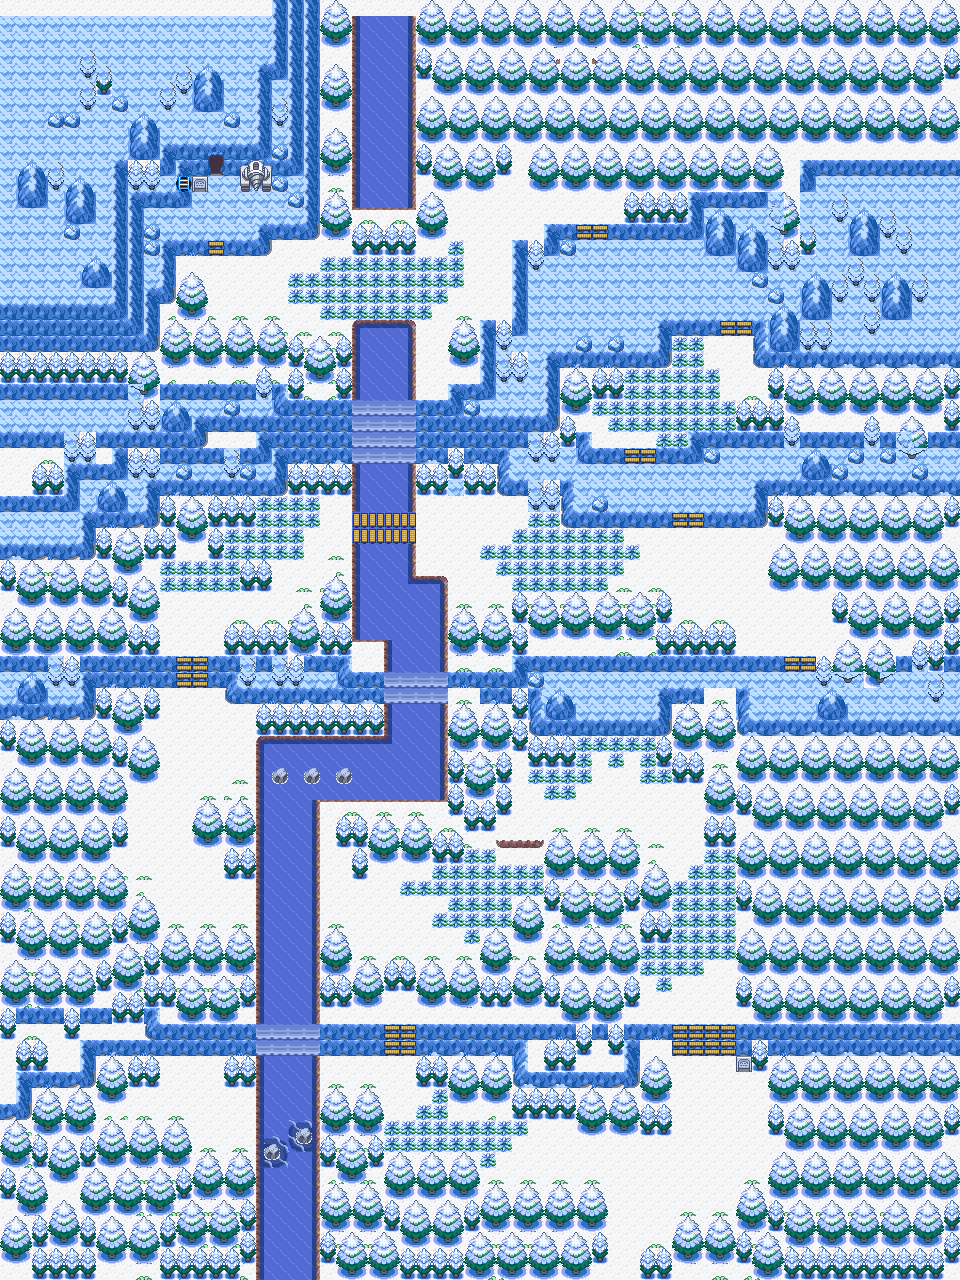
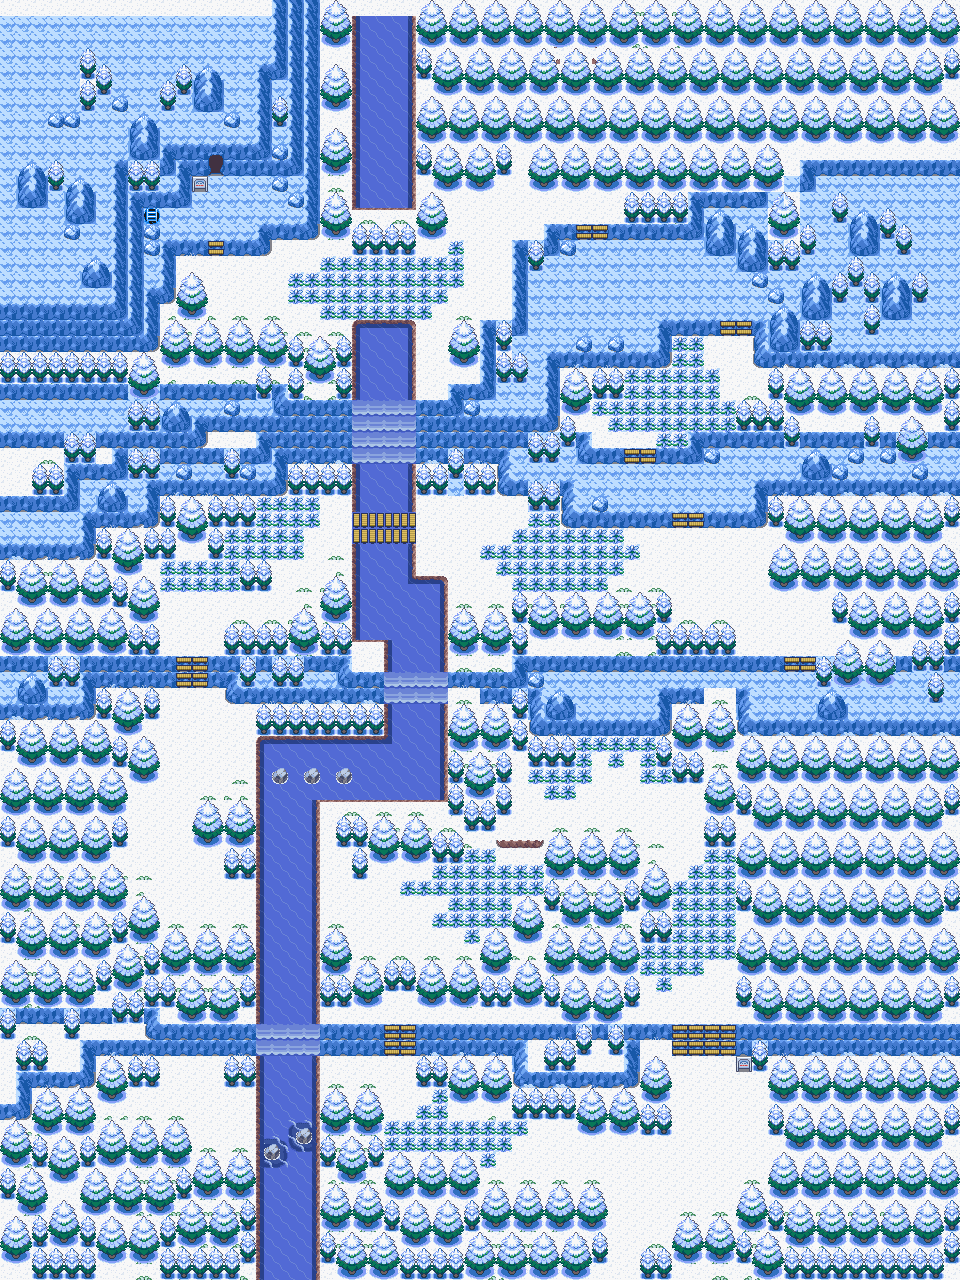
Mt. Mirroh exterior: secret ladder moved to the marked spot (9,13); drilling machine removed; pines on ice tidied
Claude-Session: https://claude.ai/code/session_01FHXnfqnedTHLf5QFbB3MCU

diff --git a/tools/art/mt_mirroh/exterior_mock.py b/tools/art/mt_mirroh/exterior_mock.py
@@ -24,9 +24,10 @@ DOJO = {(x, y) for x in range(33, 49) for y in range(4, 12)}
 LOWER_MOUTH = [(11, 64), (11, 65)]
 CAVE = (13, 10)
 # the secret way down to B1F, Alaric's ritual site (user 2026-11-23: right by the main entrance into the mountain): a
-# ladder hole in the ice in the corner left of the cave mouth, under a Rock Smash rock (an object, placed by the build;
+# ladder hole in the ice west of the cave mouth, above two rocks, under a Rock Smash rock (an object, placed by the build;
 # Rock Smash comes later in the game, so in Chapter 1 the rock stays)
-SECRET = (11, 11)
+SECRET = (9, 13)        # (user 2026-11-23, marked on a screenshot: the open ice above the two rocks, west of the mouth)
+DRILL = [(15, 10), (16, 10), (15, 11), (16, 11)]   # (Dreamstone Mysteries' drilling machine by the mouth: gone, user)
 MB_TALL_GRASS = 0x02
 EFG = mm.EF_GROUND
 BIG, SMALL, ROCK = [[0xe9, 0xea], [0xf1, 0xf2], [0xf9, 0xfa]], [[0x109], [0x111]], [[0xe8]]
@@ -67,10 +68,13 @@ def compose():
         c = cell_of(dm, x, y).astype(int)
         blue = ((c[..., 2] - c[..., 0] > 30) & (c.sum(-1) > 450)).sum(); white = (c.min(-1) > 230).sum()
         return blue > white
-    on_ice = {(x, y) for (x, y) in tree if cells[(x, y)][2] == 'MB_MOUNTAIN_TOP'}
-    for y in range(H - 1, -1, -1):                          # (the top of a pine whose foot stands on the ice)
-        for x in range(W):
-            if (x, y) in tree and (x, y + 1) in on_ice and cells.get((x - 1, y), [1, 0, ''])[2] != 'MB_NORMAL': on_ice.add((x, y))
+    def corner_ice(x, y):                                  # (DM's ground at the cell's top corners: ice or snow)
+        c = cell_of(dm, x, y).astype(int); k = np.concatenate([c[:3, :3].reshape(-1, 3), c[:3, -3:].reshape(-1, 3)])
+        return ((k[:, 2] - k[:, 0] > 30) & (k.sum(-1) > 450)).mean() > 0.5
+    base = {(x, y) for (x, y) in tree if cells[(x, y)][2] == 'MB_MOUNTAIN_TOP'}
+    on_ice = base | {(x, y) for (x, y) in tree if (x, y + 1) in base}                       # (a pine's top over its foot)
+    on_ice |= {(x, y) for (x, y) in tree if corner_ice(x, y) and cells[(x, y)][2] != 'MB_MOUNTAIN_TOP' and
+               any(cells.get(n, [1, 0, ''])[2] == 'MB_MOUNTAIN_TOP' for n in ((x - 1, y), (x + 1, y), (x, y - 1), (x, y + 1)))}
     tree |= DOJO
     for x in range(W):                                              # (the top edge closed: pinewood)
         if not solid[0, x]: tree |= {(x, 0)}
@@ -110,7 +114,8 @@ def compose():
         else: place(ROCK, x, y)                                         # (no bare cells in a wood: they read as ground)
     # trees standing on DM's ice: Elderflower's plain snow left round them (its two commonest colours) shows the ice
     from scipy.ndimage import label as _label
-    efsnow = {tuple(c) for m_ in (0xed, 0xee) for c in mm.full('ef', m_).reshape(-1, 3)}
+    t0 = mm.full('ef', 0xed).reshape(-1, 3); cols_, cnt_ = np.unique(t0, axis=0, return_counts=True)
+    efsnow = {tuple(c) for c in cols_[np.argsort(-cnt_)[:2]]}     # (its plain snow's two colours only)
     for (x, y) in on_ice:
         reg = img[y * 16:y * 16 + 16, x * 16:x * 16 + 16]
         icec = ground_near(x, y, plain_ice, ICE)
@@ -155,6 +160,9 @@ def compose():
             n = (x + d, y); v = cells.get(n)
             if v and v[0] == 1 and n not in tree and n not in LOWER_MOUTH and v[2] == 'MB_MOUNTAIN_TOP' and v[5] - v[3] > 40: break
         img[y * 16:y * 16 + 16, x * 16:x * 16 + 16] = cell_of(dm, *n); solid[y, x] = True; beh[y, x] = 0
+    # the drilling machine: gone; the band and the ice beside it carry on (DM's own cells, and their collision)
+    for (x, y) in DRILL:
+        n = (14, y); img[y * 16:y * 16 + 16, x * 16:x * 16 + 16] = cell_of(dm, *n); solid[y, x] = cells[n][0] != 0; beh[y, x] = 0
     # the ladder hole: Dreamstone Mysteries' own (its 1F's ladder at (38, 45)), cut from its cave floor onto the ice
     one = np.array(Image.open(os.path.join(REPO, 'assets', 'mt_mirroh_reference', 'dm_1f.png')).convert('RGB'))
     lad = cell_of(one, 38, 45).astype(int); flo = cell_of(one, 37, 45).astype(int)

diff --git a/bible/20_chapter1_build.md b/bible/20_chapter1_build.md
@@ -204,7 +204,7 @@ Chapter 1 is the template: once its foundations (mechanics, maps, buildings, NPC
     - **Walked in the emulator** both ways: Hollow Hill → Mirroh Gate → hallway → Lower → stairs → Upper → north-west hallway (turned back) → skull gate → grounds → the lake and back, then all the way down again to Hollow Hill (`assets/mirroh_reference/ingame_mirroh_tour.png`).
     - Lamps, benches and snow flowers are solid. The reflecting ice is plain floor for now.
   - **Mt. Mirroh and Mirroh Peak, decided (user 2026-11-23):** **three maps: the outdoor climb, one cave floor, the summit.** The climb carries the Sword Cult trainers and, off the path, the hidden camp where acolytes torture a captured Beads cultist (8a); the cave floor runs through the mountain and holds **the scarred site of Alaric's Ting-Lu ritual** two years ago (bible 12); the summit plateau is the stage for Baradus, the hurt Eden, the shiny Crabominable and Kimaris's arrival (8b-8c). **The look (user):** a combination of Route 13's art (MonoMyth's northern routes and Fort Elderflower), **MonoMyth's mountains (like Mt. Thunder)**, **Dreamstone Mysteries' snowy and icy mountain terrain**, and **Crown's, if it has any**. **Clarified by the user the same evening: Mt. Mirroh is an expansion of Dreamstone Mysteries' own Mt. Mirroh.** Its overall design and layout (the exterior valley, the caves `MirrohInterior_1F/2F/B1F`, the Peak) are kept as the basis and expanded and re-dressed in the combined art, not replaced by a new design. (So the earlier "replaced, deleted later" applies only to whatever of the old maps the expansion leaves unused.)
-    - **Dreamstone Mysteries' Mt. Mirroh, as found (2026-11-23; `assets/mt_mirroh_reference/dm_mt_mirroh_overview.png`, exits marked):** **the exterior** (`MtMirrohExterior`, 60x80): a river valley climbing from Mirroh Base Camp at its foot (a map connection), bridges and pinewoods, a pushable-boulder puzzle at its head beside **the cave mouth** (13,10) **and a fighting dojo** (41,9); a **lower cave mouth** (11,65) into B1F. **1F** (60x60, an ice cave): **a rest stop with a nurse** (41,46), boulder puzzles, plank bridges, three ways up to **2F** (60x60, a loop of trainers and a boulder puzzle), **the exit onto the Peak** (3,12) with two Magma members beside it, and an exit to Lily Pond (a later area). **B1F** (60x80): one great icy hall reached from the lower mouth (Winterlily Hollow, later, warps into it). **The Peak** (`MirrohPeak`, 50x110): a pinewood snowfield at its foot (from 1F), terraced ice cliffs climbed past Magma grunts, **a long bridge across a frozen lake to the summit**, where huts stand and DM's climax took place (Maxie, a Deoxys triangle); an exit east to Winterlily Hollow (later). **The expansion's flow, decided by the user 2026-11-23:** **the exterior** (the river climb; **the fighting dojo removed**) leads into **1F**, where the player meets a few hikers and enemy trainers and, **near the stairs up to 2F, comes upon Sword Cult acolytes torturing a captured Beads cultist (8a)**: **the inciting incident** that drives the player to explore further, alongside the search for the first Dreamstone Shard. **2F is where the player finds the Dreamstone Shard.** From 2F, **the Peak**: at the summit (**abandoned ruins**: old stone huts and a broken shrine, where rumours placed the Shard) the player **beats the Sword Cult's unit boss there, a cardinal cultist**; **Baradus swoops in and kills him in front of the player for losing**: **his Crabominable crushes the cardinal, leaving a mangled corpse**, and then Baradus turns on the player (the curbstomp, 8b). Meant to make a big impact: how no-nonsense, ruthless and dangerous Baradus is. (The rest of Beat 8 stands unless the user changes it: the hurt Eden, Kimaris's arrival, 8d's aftermath.) **Alaric's Ting-Lu ritual site is B1F** (user 2026-11-23, correcting the earlier "delete B1F": "technically a B1F you need to make where the Ting-Lu ritual took place, but sealed in Chapter 1 and you can't access it"): **a ladder down beside the exterior's cave mouth, covered by a Rock Smash rock** (user 2026-11-23: right near the main entrance into the mountain; it replaces the earlier "caved-in spot on 1F"), broken open later with Rock Smash (a side quest later in the game), leads down to it. **B1F is made in stage 1** (its look: the scarred ritual site, expanding DM's B1F great icy hall) **and is unreachable in Chapter 1**; the exterior's lower cave mouth into it is removed (the only way in is the 1F cave-in); Winterlily Hollow's warps into it are settled when that later area is done. **Eden and Kimaris close the Peak scene as written** (user 2026-11-23). **The exterior, mock v1 (2026-11-23; `tools/art/mt_mirroh/exterior_mock.py`, `assets/mt_mirroh_reference/exterior_mock_v1.png`, beside DM's: `exterior_dm_vs_mock_v1.png`):** DM's own picture and collision as the base, so its layout stays exactly (its blue ice cliffs and plateaus, river, falls, bridges, stairs, meadows, the cave mouth at the head, the boulders); its pines become Route 13's (Fort Elderflower's, whole trees, staggered), its tall grass Route 13's ice grass, its stray green shrubs gone; the dojo pinewood, the lower cave mouth rock, the top edge closed; reachable from the foot path to the cave mouth. **The secret way down to B1F (user 2026-11-23: "right near the main entrance going into Mt. Mirroh proper"):** a ladder hole in the ice at (11,11), in the corner just left of the cave mouth's signpost (Dreamstone Mysteries' own ladder hole from its 1F, cut onto the ice), **covered by a Rock Smash rock** (an object); Rock Smash comes later in the game, so in Chapter 1 it stays shut (`assets/mt_mirroh_reference/exterior_secret_ladder.png`). Art reference for the expansion: **MonoMyth's Mt. Thunder** (its mapsecs 59, 73, 126: pale-blue ice caves, snowfields with pines, a diagonal mountain face, a summit; `assets/mt_mirroh_reference/monomyth_mt_thunder_maps.png`).
+    - **Dreamstone Mysteries' Mt. Mirroh, as found (2026-11-23; `assets/mt_mirroh_reference/dm_mt_mirroh_overview.png`, exits marked):** **the exterior** (`MtMirrohExterior`, 60x80): a river valley climbing from Mirroh Base Camp at its foot (a map connection), bridges and pinewoods, a pushable-boulder puzzle at its head beside **the cave mouth** (13,10) **and a fighting dojo** (41,9); a **lower cave mouth** (11,65) into B1F. **1F** (60x60, an ice cave): **a rest stop with a nurse** (41,46), boulder puzzles, plank bridges, three ways up to **2F** (60x60, a loop of trainers and a boulder puzzle), **the exit onto the Peak** (3,12) with two Magma members beside it, and an exit to Lily Pond (a later area). **B1F** (60x80): one great icy hall reached from the lower mouth (Winterlily Hollow, later, warps into it). **The Peak** (`MirrohPeak`, 50x110): a pinewood snowfield at its foot (from 1F), terraced ice cliffs climbed past Magma grunts, **a long bridge across a frozen lake to the summit**, where huts stand and DM's climax took place (Maxie, a Deoxys triangle); an exit east to Winterlily Hollow (later). **The expansion's flow, decided by the user 2026-11-23:** **the exterior** (the river climb; **the fighting dojo removed**) leads into **1F**, where the player meets a few hikers and enemy trainers and, **near the stairs up to 2F, comes upon Sword Cult acolytes torturing a captured Beads cultist (8a)**: **the inciting incident** that drives the player to explore further, alongside the search for the first Dreamstone Shard. **2F is where the player finds the Dreamstone Shard.** From 2F, **the Peak**: at the summit (**abandoned ruins**: old stone huts and a broken shrine, where rumours placed the Shard) the player **beats the Sword Cult's unit boss there, a cardinal cultist**; **Baradus swoops in and kills him in front of the player for losing**: **his Crabominable crushes the cardinal, leaving a mangled corpse**, and then Baradus turns on the player (the curbstomp, 8b). Meant to make a big impact: how no-nonsense, ruthless and dangerous Baradus is. (The rest of Beat 8 stands unless the user changes it: the hurt Eden, Kimaris's arrival, 8d's aftermath.) **Alaric's Ting-Lu ritual site is B1F** (user 2026-11-23, correcting the earlier "delete B1F": "technically a B1F you need to make where the Ting-Lu ritual took place, but sealed in Chapter 1 and you can't access it"): **a ladder down beside the exterior's cave mouth, covered by a Rock Smash rock** (user 2026-11-23: right near the main entrance into the mountain; it replaces the earlier "caved-in spot on 1F"), broken open later with Rock Smash (a side quest later in the game), leads down to it. **B1F is made in stage 1** (its look: the scarred ritual site, expanding DM's B1F great icy hall) **and is unreachable in Chapter 1**; the exterior's lower cave mouth into it is removed (the only way in is the 1F cave-in); Winterlily Hollow's warps into it are settled when that later area is done. **Eden and Kimaris close the Peak scene as written** (user 2026-11-23). **The exterior, mock v1 (2026-11-23; `tools/art/mt_mirroh/exterior_mock.py`, `assets/mt_mirroh_reference/exterior_mock_v1.png`, beside DM's: `exterior_dm_vs_mock_v1.png`):** DM's own picture and collision as the base, so its layout stays exactly (its blue ice cliffs and plateaus, river, falls, bridges, stairs, meadows, the cave mouth at the head, the boulders); its pines become Route 13's (Fort Elderflower's, whole trees, staggered), its tall grass Route 13's ice grass, its stray green shrubs gone; the dojo pinewood, **Dreamstone Mysteries' drilling machine by the cave mouth removed** (user 2026-11-23), the lower cave mouth rock, the top edge closed; reachable from the foot path to the cave mouth. **The secret way down to B1F (user 2026-11-23: "right near the main entrance going into Mt. Mirroh proper"):** a ladder hole in the ice at (9,13), **where the user marked it on a screenshot**: the open ice west of the cave mouth, above two rocks against the cliff (Dreamstone Mysteries' own ladder hole from its 1F, cut onto the ice; a first try at (11,11) by the signpost was wrong), **covered by a Rock Smash rock** (an object); Rock Smash comes later in the game, so in Chapter 1 it stays shut (`assets/mt_mirroh_reference/exterior_secret_ladder.png`). Art reference for the expansion: **MonoMyth's Mt. Thunder** (its mapsecs 59, 73, 126: pale-blue ice caves, snowfields with pines, a diagonal mountain face, a summit; `assets/mt_mirroh_reference/monomyth_mt_thunder_maps.png`).
   - **Mirroh Necropolis grounds built (2026-11-21):** `NecropolisGrounds` (44x50, `tools/art/necropolis/build_grounds.py`, from the approved mock).
     - The foot of the way in leads back to Mirroh's skull gate. The grand entrance's dark doorway leads down to the lake's landing, whose foot leads back up.
     - **Its foot shows the skull gate (user 2026-11-22: check the other gatehouses and entrances for what Route 13's foot did).** The way back to Mirroh had run off the bottom edge between the hedges into open snow (the border), and you came out before a gate you never saw. Now 44x59: below the mock, nine rows of Upper Mirroh as built (its x 22 on, its flank pines carried on past its edge): the city wall-walk running on to the gate's towers behind their spires, the skull gate's spired towers and crenellated top, the chapel and graves behind the wall. The road runs down between the spires (Upper's x 42-46 under the grounds' x 20-24), and its last snow row above the gate's top (row 53) is the warp, MonoMyth's convention. Foot warps 0-2 are x 21-23 (Upper's gate warps at x 43-45 lead to them in order), 3-4 are x 20 and 24. The grand entrance door is now warp 5; the lake's exits point to it. The south gatehouse's back door in Lower Mirroh was checked and was already right: the street's last two cells at the roof's peak. Walked in the game: skull gate to the grounds' foot, the grand entrance, the lake and back, the foot back to Upper.
